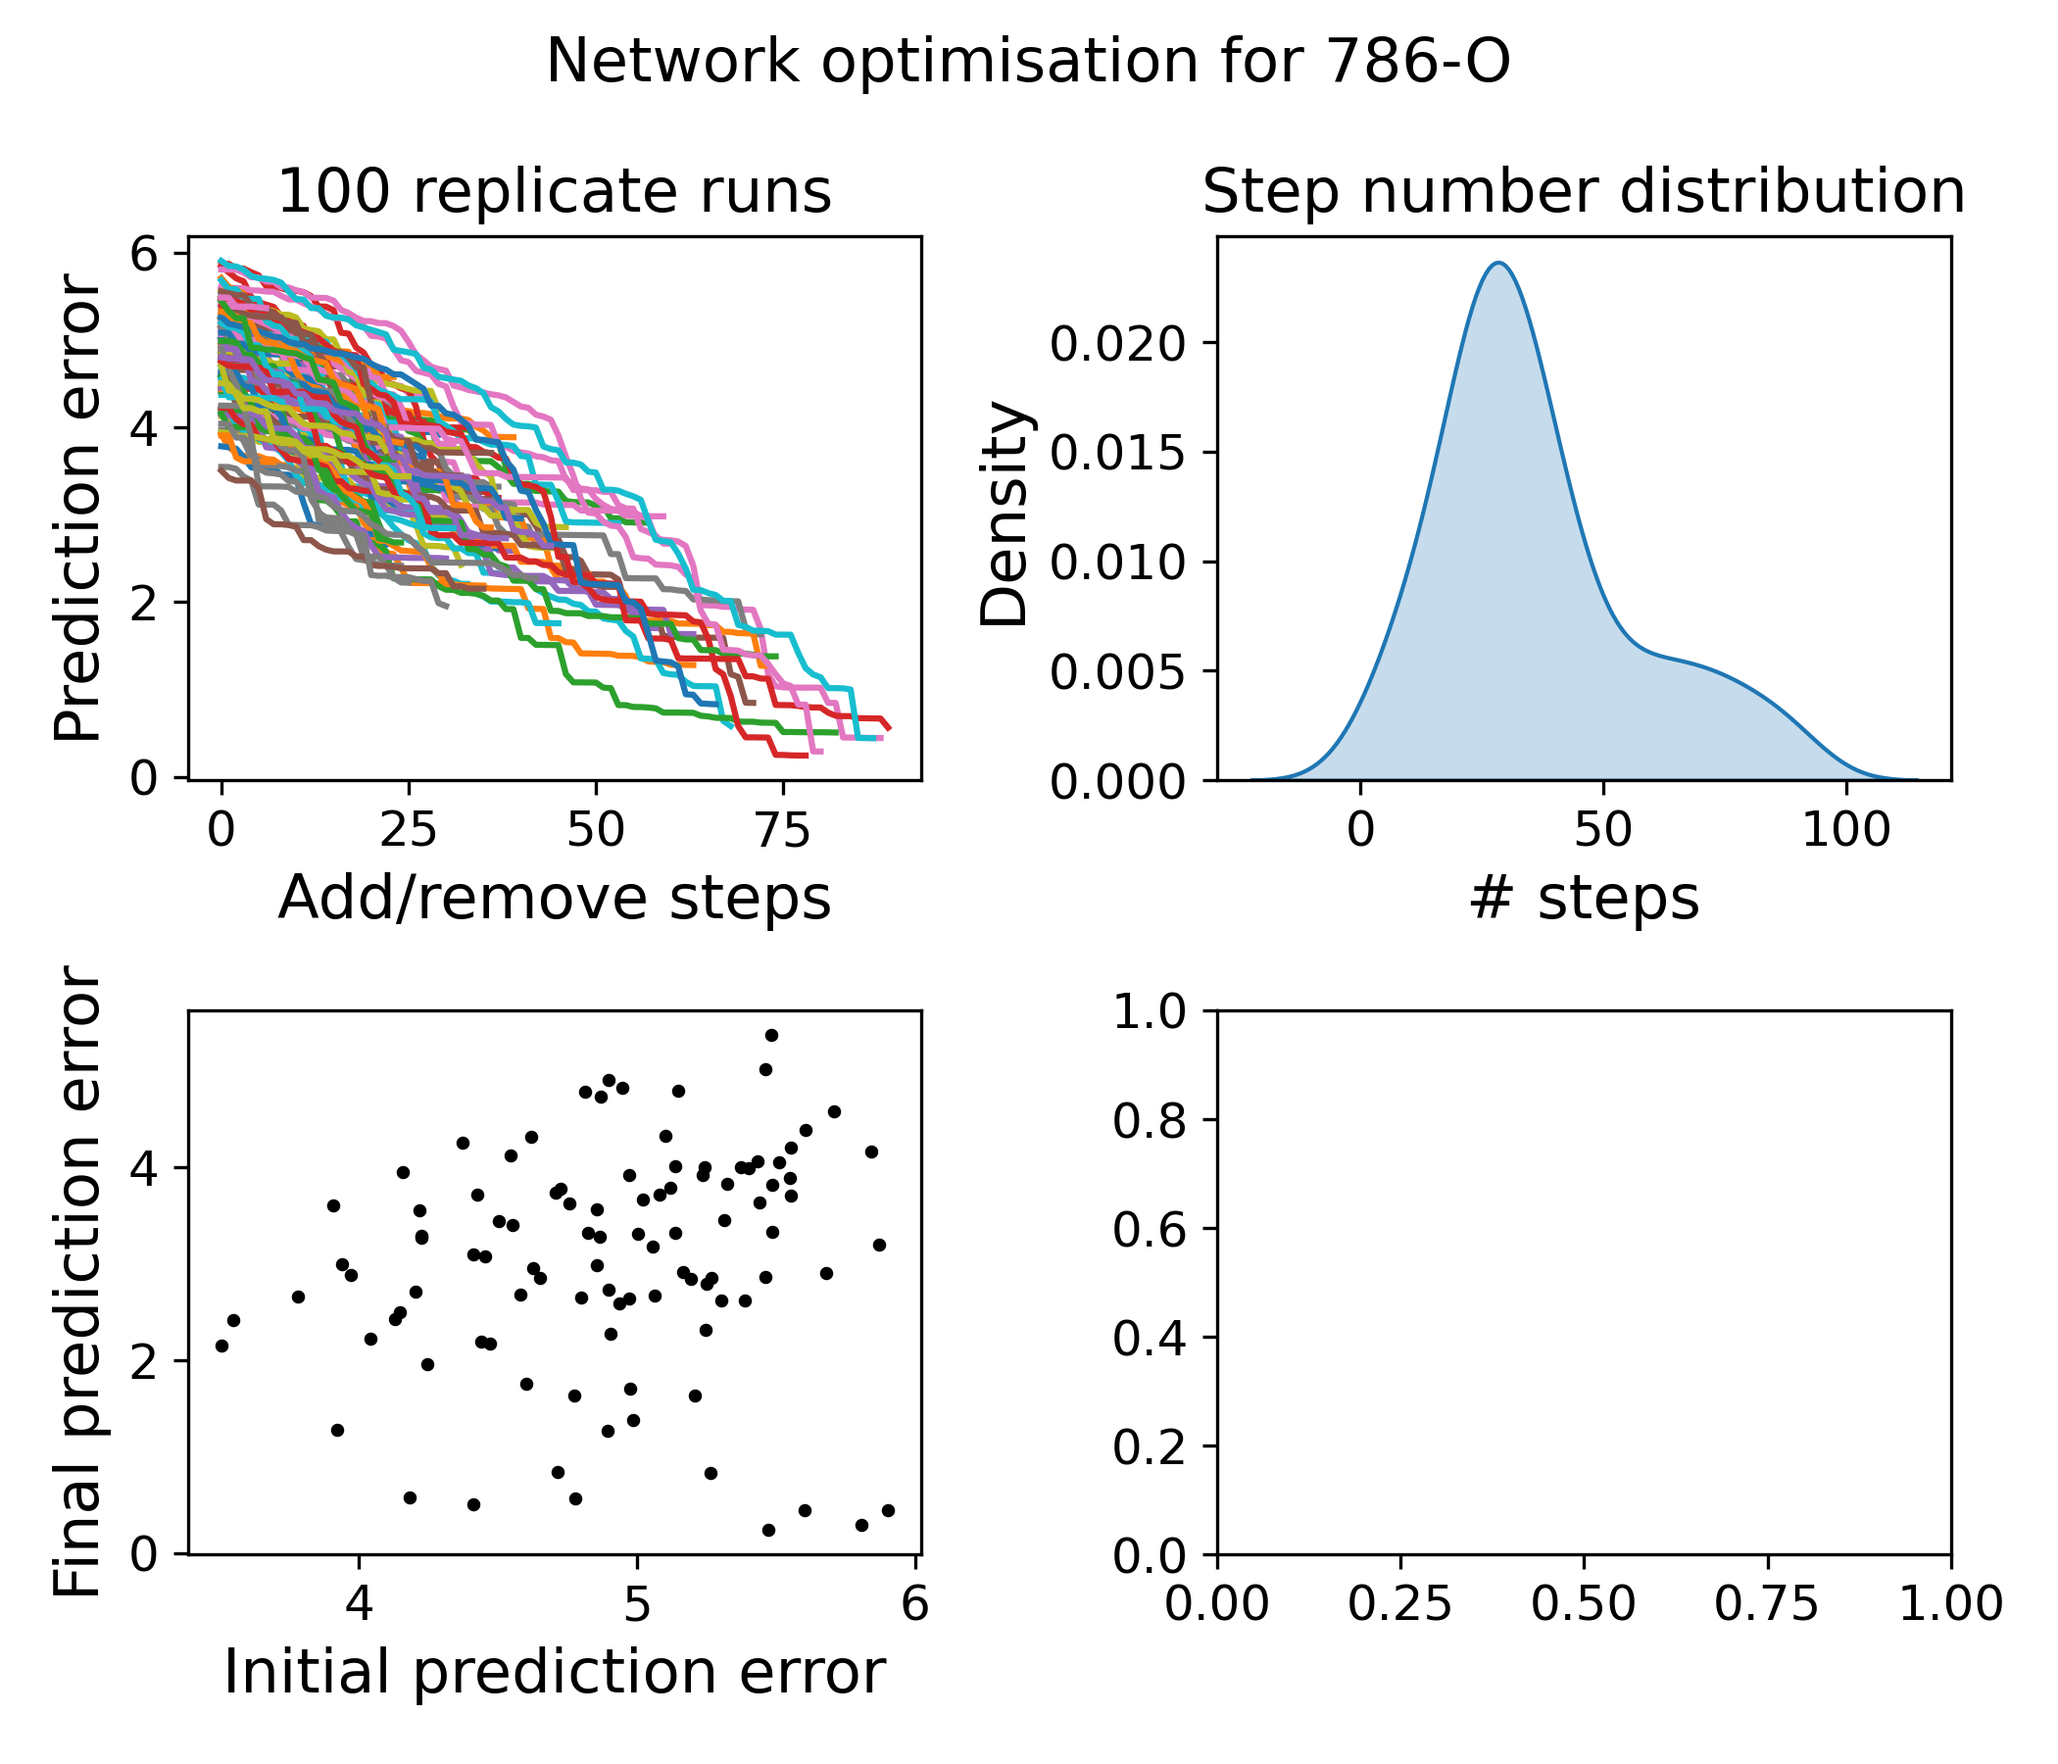
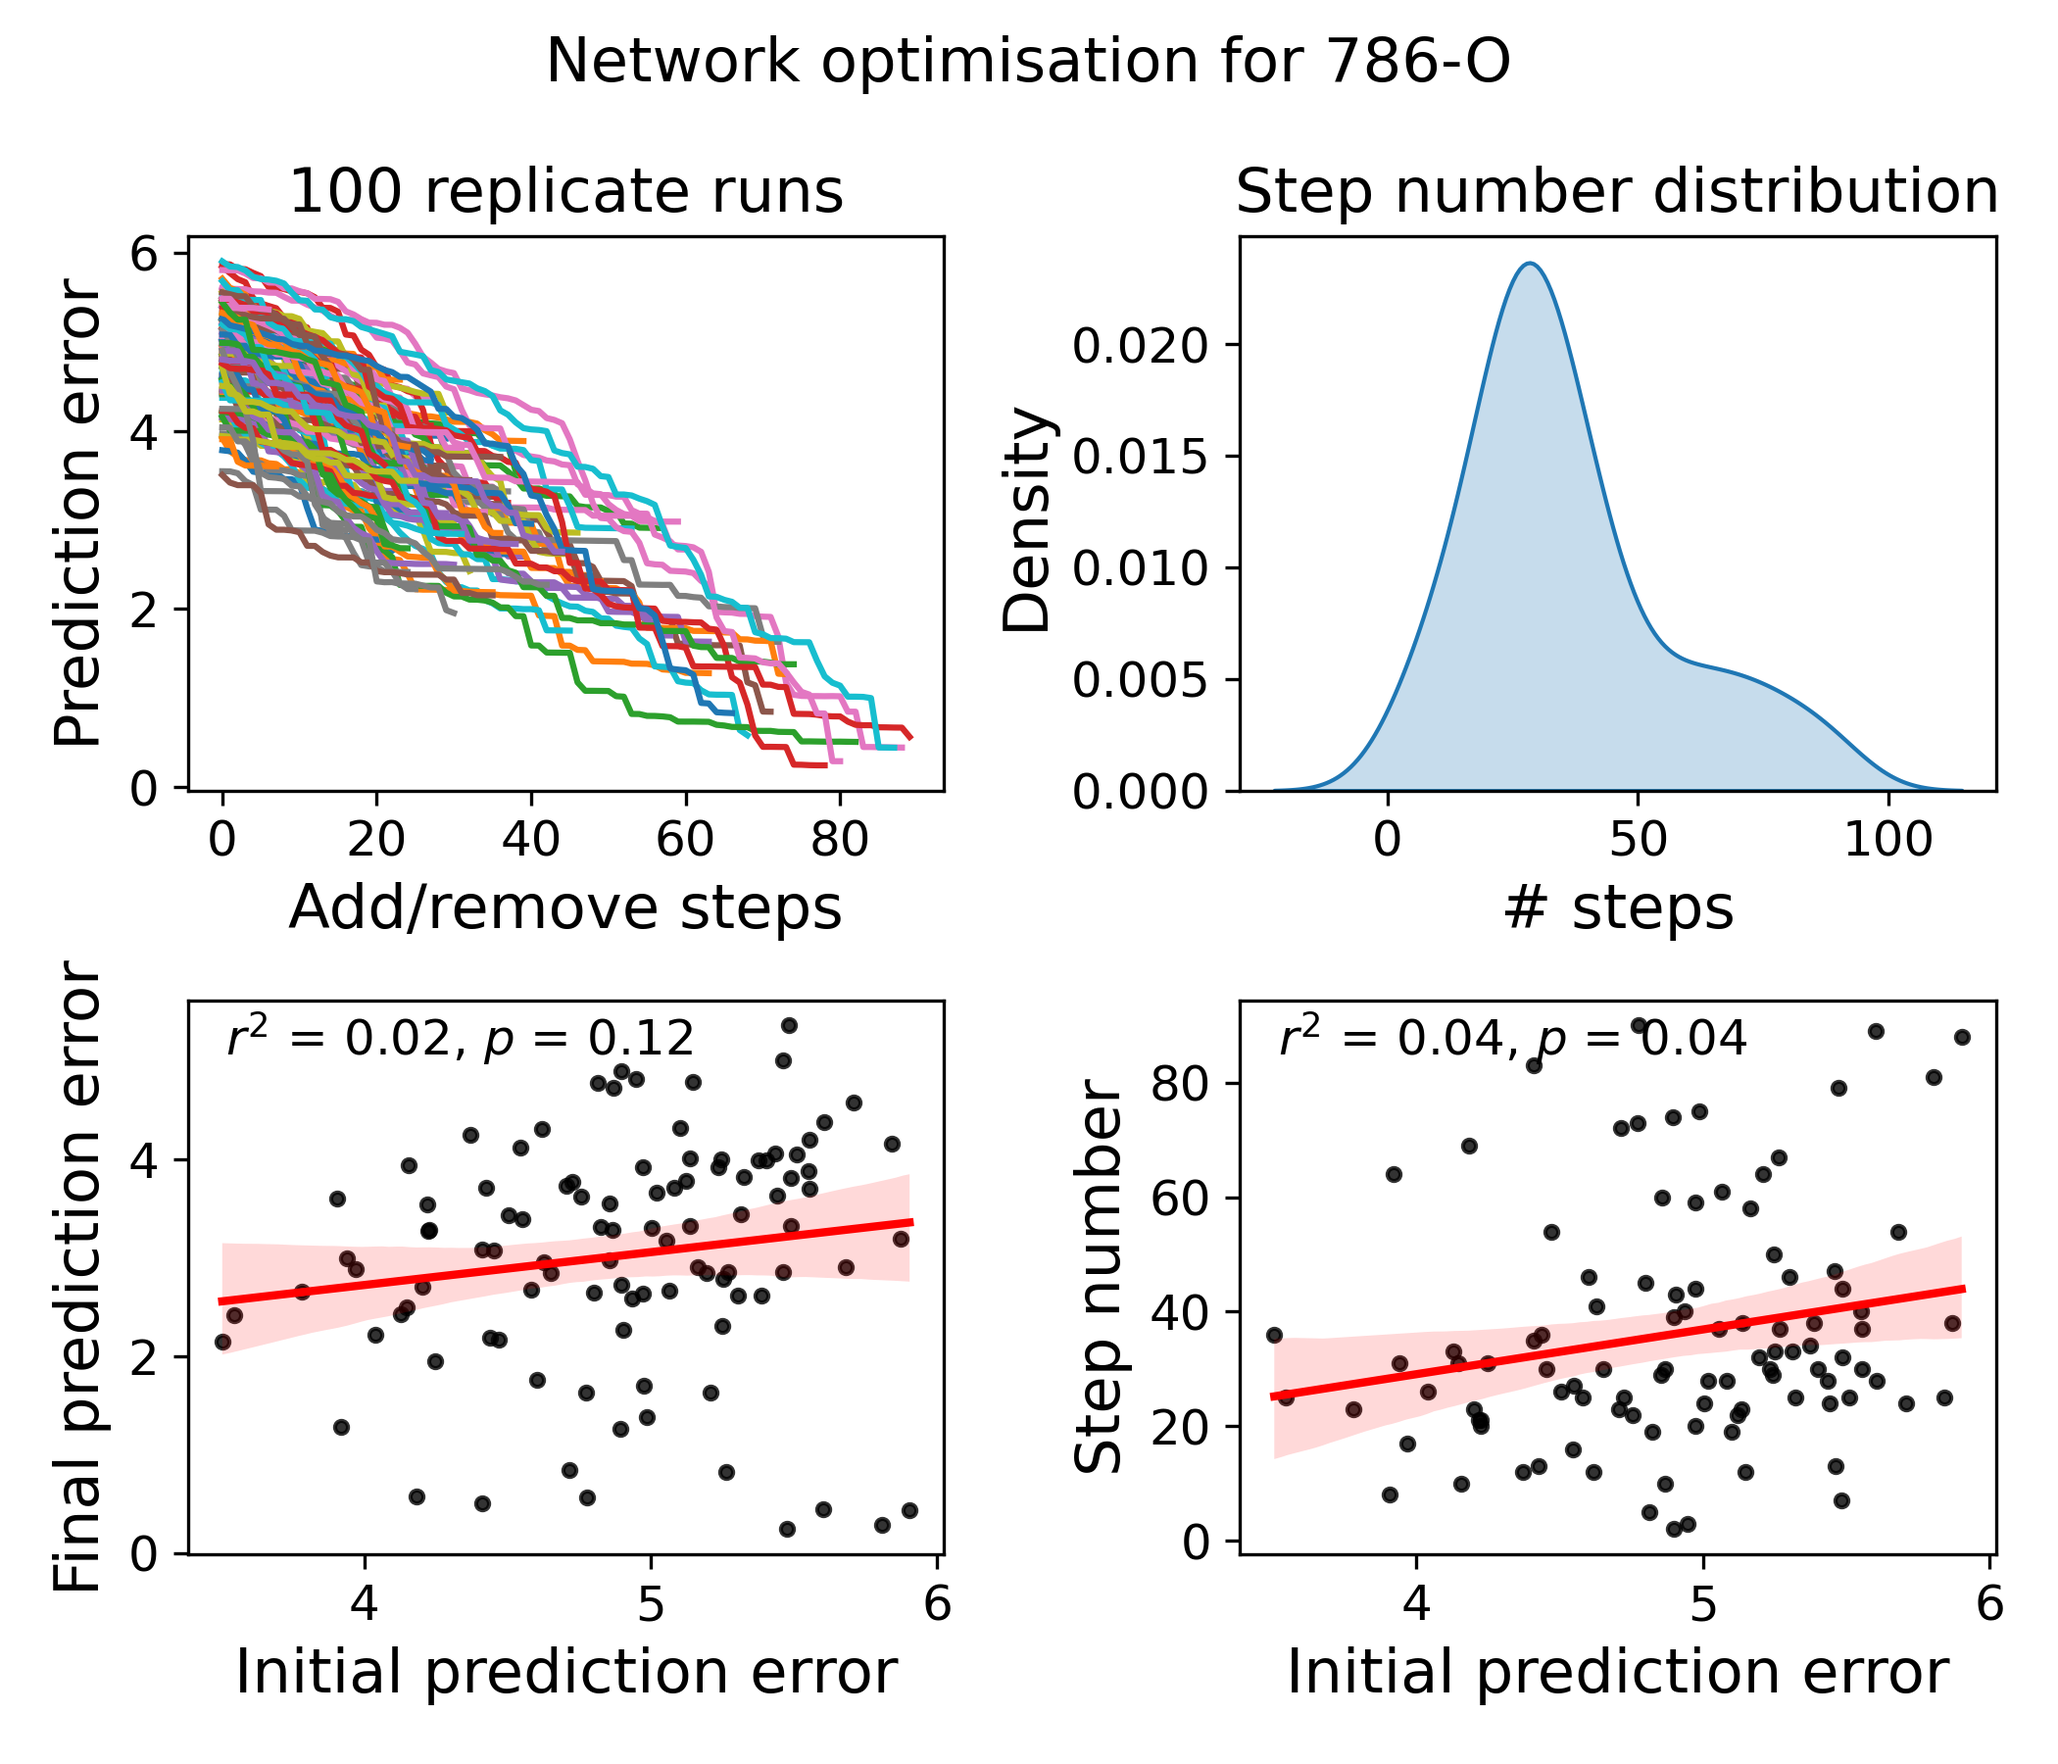
Return from Japan, fixing adjacency to edgelist conversion

diff --git a/codes/cancer-all-network-models.py b/codes/cancer-all-network-models.py
@@ -93,16 +93,17 @@ def get_network(net):
 
     outgoingNodes = df_metabolites.reindex(net['metabolites_ID'].values).values.flatten()
     ingoingNodesTemp = df_celltypes.reindex(net['celltypes_ID'].values).values.flatten()
-    edge_types = net.iloc[:, -1].to_numpy() #net.iloc[~np.isnan(ingoingNodesTemp),3].values
+    edge_types = net.iloc[~np.isnan(ingoingNodesTemp),3].values
     outgoingNodes = outgoingNodes[~np.isnan(ingoingNodesTemp)]
     ingoingNodes = ingoingNodesTemp[~np.isnan(ingoingNodesTemp)].astype(int)
 
     net_reduced = pd.DataFrame.from_dict({'metabolites': outgoingNodes, 'celltypes':ingoingNodes, 'edgeType':edge_types})
     net = net_reduced.copy()
-    net_temp = net_reduced.copy()
-    net.iloc[np.where(net['edgeType']==5)[0], -1] = 2
-    net_temp.iloc[np.where(net_temp['edgeType']==5)[0], -1] = 3
-    net_final = pd.concat([net, net_temp]).drop_duplicates()
+    net_temp = net.copy()
+    net['edgeType'][net['edgeType']==5] = 2
+    net_temp['edgeType'][net_temp['edgeType']==5] = 3
+    net = pd.concat([net, net_temp]).drop_duplicates() #net.append(net_temp).drop_duplicates()
+    net_final = net.copy()
 
     return net_final, i_nonzero_celltypes, i_nonzero_metabolites, MAX_ID_celltypes, MAX_ID_metabolites
 
@@ -492,7 +493,7 @@ def run_network_optimisation(f, cl, cellnum_init, cellnum_final, net_raw, diet, 
         prior_prob1 = np.exp(3*bias_metabolome_ori)/np.exp(3*bias_metabolome_ori).sum(0) # Recalculate priors based on the modified network
         prior_prob = np.concatenate([prior_prob1, prior_prob1])
 
-        if np.random.uniform(0,1,1)[0] < np.exp((inverseKT)*(error_before - error_after)): # If the reduction in error is large enough, the proposed link addition/removal is accepted
+        if np.random.uniform(0,1,1)[0] < np.min([1, np.exp((inverseKT)*(error_before - error_after))]): # If the reduction in error is large enough, the proposed link addition/removal is accepted
             error_before = error_after
             if x[i_x] == 1:
                 # print('Addition accepted, error is ', error_before)
@@ -535,7 +536,7 @@ def run_network_optimisation(f, cl, cellnum_init, cellnum_final, net_raw, diet, 
     consumption_deleted = links_deleted[:max_links]
     production_deleted = links_deleted[max_links:]
 
-    return [error_list, consumption_added, production_added, consumption_deleted, production_deleted]
+    return [x_ori, x, error_list, consumption_added, production_added, consumption_deleted, production_deleted]
 
 
 # %%
@@ -668,12 +669,14 @@ plot_summary_stats(net_state, fig_name, k, f_arr, ec_corr, ct_full, mean_error, 
 # %%
 """Network optimisation simulations"""
 ############ Run network optimisation 'n_rep' times for a given cell line, each time starting with a new randomised network
-n_reps = 100
+n_reps = 3
 cl = cell_line_names[0]
 f = 0.5
 
 cellnum_init = cellnum_init_all[0]
 cellnum_final = cellnum_final_all[0]
+x_optim_list = [[]]
+x_ori_list = [[]]
 error_list_all_reps = [[]]
 consumption_added = [[]]
 production_added = [[]]
@@ -684,8 +687,10 @@ in_degree_flag = False
 
 for i in np.arange(n_reps):
     net_raw = generate_random_network(all_random_networks[0])
-    elist, con_add, pro_add, con_del, pro_del = run_network_optimisation(f, cl, cellnum_init, cellnum_final, net_raw, diet, in_degree_flag, MAX_ID_metabolites, MAX_ID_celltypes)
+    x_ori, x, elist, con_add, pro_add, con_del, pro_del = run_network_optimisation(f, cl, cellnum_init, cellnum_final, net_raw, diet, in_degree_flag, MAX_ID_metabolites, MAX_ID_celltypes)
 
+    x_ori_list.append(x_ori)
+    x_optim_list.append(x)
     error_list_all_reps.append(elist)
     consumption_added.append(con_add)
     production_added.append(pro_add)
@@ -697,6 +702,8 @@ for i in np.arange(n_reps):
     print('Round', i+1, 'of network optmisation ended with', n_added, 'links added and', n_deleted, 'links deleted.')
     print('------------------')
 
+x_ori_list = np.array(x_ori_list[1:])
+x_optim_list = np.array(x_optim_list[1:])
 error_plot_list = np.array(error_list_all_reps[1:], dtype=object)
 con_add_mean = np.array(consumption_added[1:]).mean(0)
 pro_add_mean = np.array(production_added[1:]).mean(0)
@@ -732,7 +739,7 @@ f, ax = plt.subplots(2, 2, figsize=(7, 6))
 
 #### A quick glance of where sims have begun and ended
 for i in range(n_reps):
-    ax[0, 0].plot(error_plot_list[i])
+    sns.lineplot(error_plot_list[i], ax=ax[0, 0])
 ax[0, 0].set_xlabel("Add/remove steps")
 ax[0, 0].set_ylabel("Prediction error")
 ax[0, 0].set_title("%d replicate runs" % n_reps)
@@ -748,9 +755,21 @@ ax[0, 1].set_title("Step number distribution")
 #### Does it matter what the initial error is
 initial_error = np.array([arr[0] for arr in error_plot_list])
 final_error = np.array([arr[-1] for arr in error_plot_list])
-ax[1, 0].scatter(initial_error, final_error, c='k', s=5)
+sns.regplot(x=initial_error, y=final_error, color='k', ax = ax[1, 0],
+            line_kws={'color': 'r', 'linewidth': 2}, scatter_kws={'s': 10})
+rsq, pval = pearsonr(initial_error, final_error)
+ax[1, 0].text(0.05, 0.9, f'$r^2$ = {rsq**2:.2f}, $p$ = {pval:.2f}', transform=ax[1, 0].transAxes)
+# ax[1, 0].scatter(initial_error, final_error, c='k', s=5)
 ax[1, 0].set_xlabel('Initial prediction error')
 ax[1, 0].set_ylabel('Final prediction error')
+
+sns.regplot(x=initial_error, y=sim_length, color='k', ax = ax[1, 1],
+            line_kws={'color': 'r', 'linewidth': 2}, scatter_kws={'s': 10})
+rsq, pval = pearsonr(initial_error, sim_length)
+ax[1, 1].text(0.05, 0.9, f'$r^2$ = {rsq**2:.2f}, $p$ = {pval:.2f}', transform=ax[1, 1].transAxes)
+# ax[1, 0].scatter(initial_error, final_error, c='k', s=5)
+ax[1, 1].set_xlabel('Initial prediction error')
+ax[1, 1].set_ylabel('Step number')
 
 f.suptitle('Network optimisation for %s' % cl)
 f.tight_layout()
@@ -789,6 +808,59 @@ plt.savefig(fig_path+'/added-secretion-links.png', dpi=300)
 # print('The new network has',len(net_new),'links')
 # print('There are',len(net_added),'links added')
 # print('There are',len(net_deleted),'links deleted')
+
+
+# %%
+##### Check out the best performing network
+i_best_net = np.where(final_error == final_error.min())[0]
+x_ori = x_ori_list[i_best_net].flatten()
+x_optim = x_optim_list[i_best_net].flatten()
+
+
+# %%
+##### Sample consensus network from the above 100 runs
+x1, x2 = np.zeros(MAX_ID_metabolites), np.zeros(MAX_ID_metabolites)
+x1[np.where(np.array(consumption_added[1:]).sum(0) >= 10)[0]] = 1
+x2[np.where(np.array(production_added[1:]).sum(0) >= 10)[0]] = 1
+
+x1[np.where(np.array(consumption_deleted[1:]).sum(0) >= 10)[0]] = 0
+x2[np.where(np.array(production_deleted[1:]).sum(0) >= 10)[0]] = 0
+
+x_consensus = np.concatenate([x1, x2])
+
+######## Convert x to net structure (convert the adjacency matrix into the edge list):
+### consumption links:
+
+max_links = MAX_ID_metabolites * MAX_ID_celltypes # maximal number of links = number of specis * number of metabolites
+net_ori, i_nonzero_celltypes, i_nonzero_metabolites, MAX_ID_celltypes, MAX_ID_metabolites = get_network(net_raw)
+
+
+m2b_added = x_consensus[:max_links].reshape((MAX_ID_metabolites, MAX_ID_celltypes))
+i_add_consumption = np.where(m2b_added!=0)[0] # Indices of added links
+# df_metabolites = pd.DataFrame.from_dict({'oldID': i_nonzero_metabolites, 'newID':list(range(len(i_nonzero_metabolites)))})
+
+a = net_ori.iloc[:len(i_nonzero_metabolites), 0].values[i_add_consumption]
+b = np.where(m2b_added==1)[1]#np.arange(len(i_nonzero_celltypes))[np.where(m2b_added >= thres)[1]]
+c = [2] * len(b)
+c_index = net_ori.index[i_add_consumption]
+net_added_consumption = pd.DataFrame({net_ori.columns[0]:list(a), net_ori.columns[1]:list(b), net_ori.columns[2]:c},
+                                     index=c_index)
+
+### production links:
+b2m_added = x_consensus[max_links:].reshape((MAX_ID_metabolites, MAX_ID_celltypes))
+i_add_production = np.where(b2m_added!=0)[0]
+
+a = net_ori.iloc[:len(i_nonzero_metabolites), 0].values[i_add_production]
+b = np.where(b2m_added==1)[1]#np.arange(len(i_nonzero_celltypes))[np.where(b2m_added >= thres)[1]]
+c = [3] * len(b)#np.where(b2m_added >= thres)[1].shape[0]
+p_index = net_ori.index[i_add_production]
+net_added_production = pd.DataFrame({net_ori.columns[0]:list(a), net_ori.columns[1]:list(b), net_ori.columns[2]:c},
+                                    index=p_index)
+
+net = pd.concat([net_added_consumption, net_added_production])
+ec_corr, ct_full, mean_error, metabolome_pred, metabolome_measured, slope, intercept = run_network_model(f_arr[0], diet, cell_line_names[0], k, cellnum_init_all[0], cellnum_final_all[0], net, in_degree_flag, MAX_ID_metabolites, MAX_ID_celltypes)
+
+
 
 # %%
 ######### Change in error with additions and deletions
